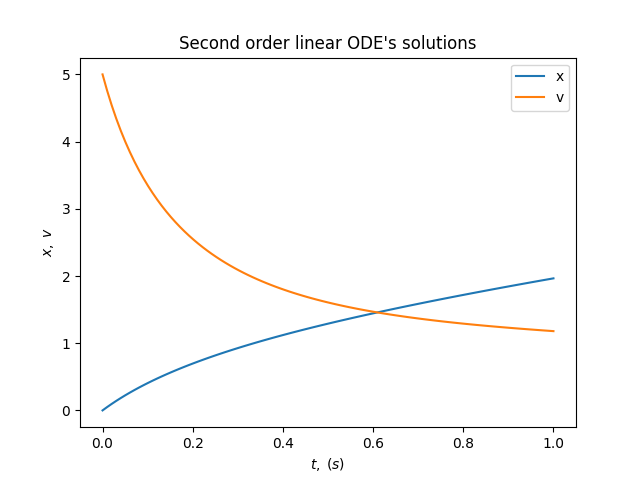
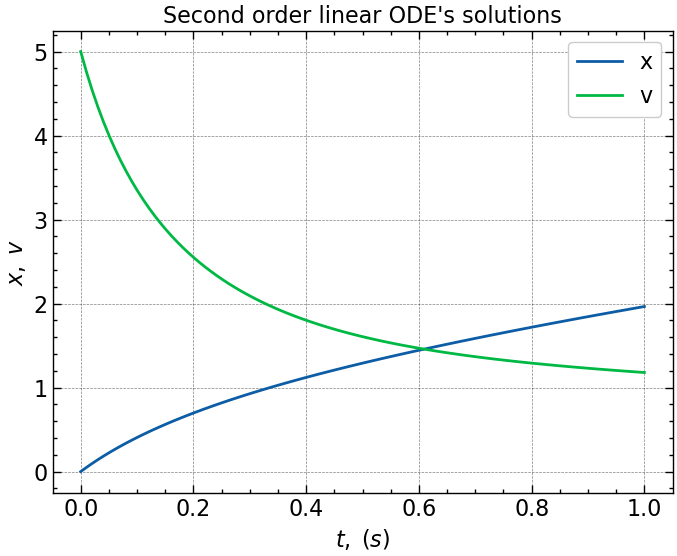
update

diff --git a/01_linear_ode.py b/01_linear_ode.py
@@ -4,6 +4,9 @@ import numpy as np
 import matplotlib.pyplot as plt
 from scipy.integrate import odeint
 from scipy.integrate import solve_ivp
+import scienceplots
+
+plt.style.use(["science", "notebook", "grid"])
 
 
 # Define the right side of the ODE when is written is the form "dv/dt = ax^2 + b"

diff --git a/02_coupled_ode.py b/02_coupled_ode.py
@@ -3,6 +3,9 @@
 import numpy as np
 import matplotlib.pyplot as plt
 from scipy.integrate import odeint
+import scienceplots
+
+plt.style.use(["science", "notebook", "grid"])
 
 
 def dSdx(x: list, S: list) -> list:

diff --git a/03_second_order_ode.py b/03_second_order_ode.py
@@ -3,6 +3,9 @@
 import numpy as np
 import matplotlib.pyplot as plt
 from scipy.integrate import odeint
+import scienceplots
+
+plt.style.use(["science", "notebook", "grid"])
 
 
 def dSdx(x: list, S: list) -> list:

diff --git a/04_third_order_coupled_ode.py b/04_third_order_coupled_ode.py
@@ -3,6 +3,9 @@
 import numpy as np
 import matplotlib.pyplot as plt
 from scipy.integrate import odeint
+import scienceplots
+
+plt.style.use(["science", "notebook", "grid"])
 
 
 def dSdt(t, S):

diff --git a/05_damped_pendulum.py b/05_damped_pendulum.py
@@ -3,6 +3,9 @@
 import numpy as np
 import matplotlib.pyplot as plt
 from scipy.integrate import odeint
+import scienceplots
+
+plt.style.use(["science", "notebook", "grid"])
 
 
 def dSdt(t, S):

diff --git a/README.md b/README.md
@@ -33,9 +33,8 @@ $$y_1' = y_1 + y_2^2 + 3x,\\; y_1(0) = 0$$
 
 $$y_2' = 3y_1 + y_2^3 - \cos(x),\\; y_2(0) = 0$$
 
-The equation system can be rewritten as a vector. Letting $S = (y_1,\\; y_2)$ we need to write a function that
-returns $dS/dx = (dy_1/dx,\\; dy_2/dx)$. The function $dS/dx$ can take in $S = y_1,\\; y_2$ and $x$. In vector form
-we then have
+The equation system can be rewritten as a vector. Letting $S = (y_1,\\; y_2)$ we need to write a function that returns $dS/dx = (dy_1/dx,\\; dy_2/dx)$.
+The function $dS/dx$ can take in $S = y_1,\\; y_2$ and $x$. In vector form we then have:
 
 $$
 \vec{S} = \begin{bmatrix}
@@ -165,23 +164,16 @@ See the file "04_third_order_coupled_ode.py" for the programming of this problem
 </figure>
 
 
-# 5. Damped pendulum (No drive force)
+# Damped pendulum (No drive force)
 
 The motion of a damped pendulum is modeled by a second-order non-linear differential equation as follows:
 
-$$\ddot{\theta} + C_1\dot{\theta} + C_2\sin(\theta) = 0$$
+$$\ddot{\theta} + C\dot{\theta} + \displaystyle \frac{g}{L}\sin(\theta) = 0$$
 
-where
+where $\theta$ is the pendulum angle, $C = k/mL$ is the damping coefficient, $k$ the friction coefficient, $m$ the
+pendulum mass, $g$ the gravitational constant, and $L$ the distance from the pivoting point to the mass center.
 
-- $\theta$ is the angle of the pendulum with respect to the direction of gravity.
-- $m$ is the mass of the pendulum (pendulum rod's mass is assumed to be zero).
-- $g$ is the gravitational acceleration.
-- $C_1 = k/mL$ is the damping coefficient.
-- $k$ is the coefficient of friction at the pivot point.
-- $L$ is the radius of the pendulum (to the center of gravity of the mass $m$).
-- $C_2 = g/L$.
-
-We want to rewrite the ODE using the state-space representation to create a two-coupled first-order equation system using the following variables:
+We want to rewrite the ODE using the state-space representation to create a two-coupled first-order equation system:
 
 - $x_1 = \theta$
 - $x_2 = \dot{\theta}$
@@ -190,39 +182,10 @@ Then, the two coupled ODE's are:
 
 $$\dot{x}_1 = x_2$$
 
-$$\dot{x}_2 = -C_1 x_2 - C_2\sin(x_1)$$
+$$\dot{x}_2 = -C\dot{x}_2 - k\sin{x_1}$$
 
-where
+where,
 
-- $x_1 = \theta$ is the angle of the pendulum.
-- $x_2 = \dot{x}_1 = \omega$ is the rotational velocity of the pendulum.
-- $\dot{x}_2 = \ddot{x}_1 = \alpha$ is the rotational acceleration of the pendulum.
+$C = \displaystyle \frac{k}{mL}$.
 
-Now, we have two coupled first order ODE's. We want to solve for $x_1,\\; x_2$. Rewriting them in vector form we have the following:
-
-$$
-\vec{S} = \begin{bmatrix}
-x_1 \\
-x_2
-\end{bmatrix} \Longrightarrow
-\displaystyle \frac{d\vec{S}}{dt} = \begin{bmatrix}
-\dot{x_1} \\
-\dot{x_2}
-\end{bmatrix} = \begin{bmatrix}
-x_2 \\
--C_1 x_2 - C_2\sin(x_1)
-\end{bmatrix}
-$$
-
-There will be needed two initial conditions. For this example, the initial conditions are:
-
-- $x_1(0) = \pi/4\\; rad$, at t=0, the pendulum angle is $\pi/4\\; rad$.
-
-- $x_2(0) = 0$, at t=0, the pendulum angular velocity is zero.
-
-See the file "05_damped_pendulum.py" for the programming of this problem. The solutions are:
-
-<figure>
-    <img src="images/05_damped_pendulum.png" alt="damped_pendulum" width="400" height="auto"/>
-    <figcaption>Figure 5. Solution of a damped pendulum with no external drive force.</figcaption>
-</figure>
+$k = \displaystyle \frac{g}{L}$
